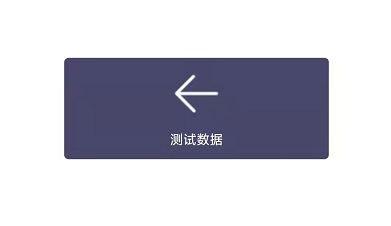
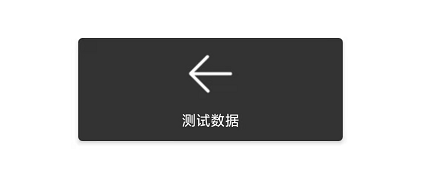
添加iconfont使用方法

diff --git a/Component/toast.md b/Component/toast.md
@@ -6,6 +6,7 @@
   - [setView](#setviewviewview)
   - [setGravity](#setgravitygravity-int-x-int-y-int)
   - [setDuration](#setdurationduration-int)
+  - [setIconFont](#seticonfonticon-string)
   - [setContent](#setcontentcontentstring)
   - [setContentStyle](#setcontentstyletextcolor-int-textsize-float)
   - [setBackground](#setbackgroundbg-int)
@@ -15,6 +16,15 @@
 ## How to use
 
 The usage method is also very simple. Through the Builder initialization, you can set up Background, Content, icon and many other styles according to your needs. Here are a few different ways of writing, you can refer to the following examples.
+
+![toast4](../Image/toast4.png)
+
+```kotlin
+AngryToast.Builder(this)
+    .setIconFont("warn")
+    .setContent("测试数据")
+    .show()
+```
 
 ![toast1](../Image/toast3.png)
 
@@ -74,6 +84,14 @@ Example:
 
 ```kotlin
 setDuration(Toast.LENGTH_SHORT)
+```
+
+## setIconFont(icon: String)
+
+After enabling, you can use the existing iconfont parameters, each parameter displays a different icon, optional parameters: "warn", "success"
+
+```kotlin
+.setIconFont("warn")
 ```
 
 ## setContent(content:String)
